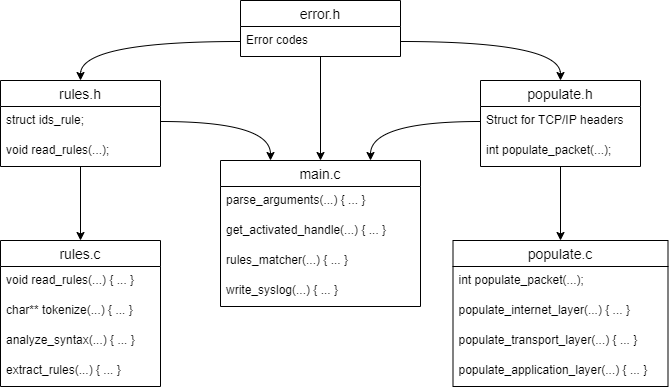
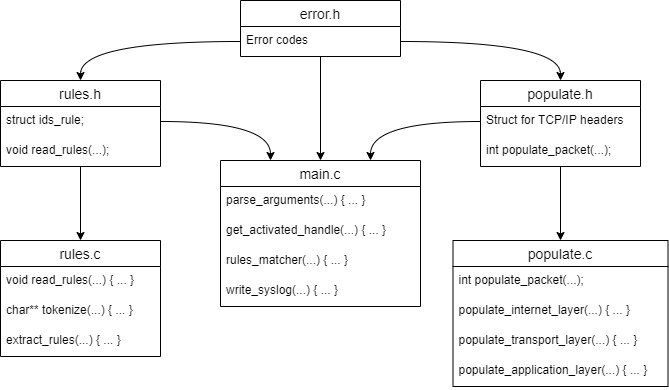
remove 'syntax_analysis' from the project structure corrected the add the system architecture by adding the 'packet_handler' function and removing the notes from the markdown

Changed region(s): [[0.0, 0.9231, 0.2392, 1.0], [0.0, 0.8615, 0.2093, 0.8923]]

diff --git a/markdown-explanations/system-architecture.md b/markdown-explanations/system-architecture.md
@@ -3,8 +3,6 @@
 
 ![picture of the architecture of the system](./images/software-architecture.png)
 
-Note that there is a mistake in this diagram as the function `packet_handler` is not respresented and should be the one responsible for the last three steps of the main function as represented here.
-
 # Project Structure
 
 ![picture of the project structure](./images/project-structure.png)
